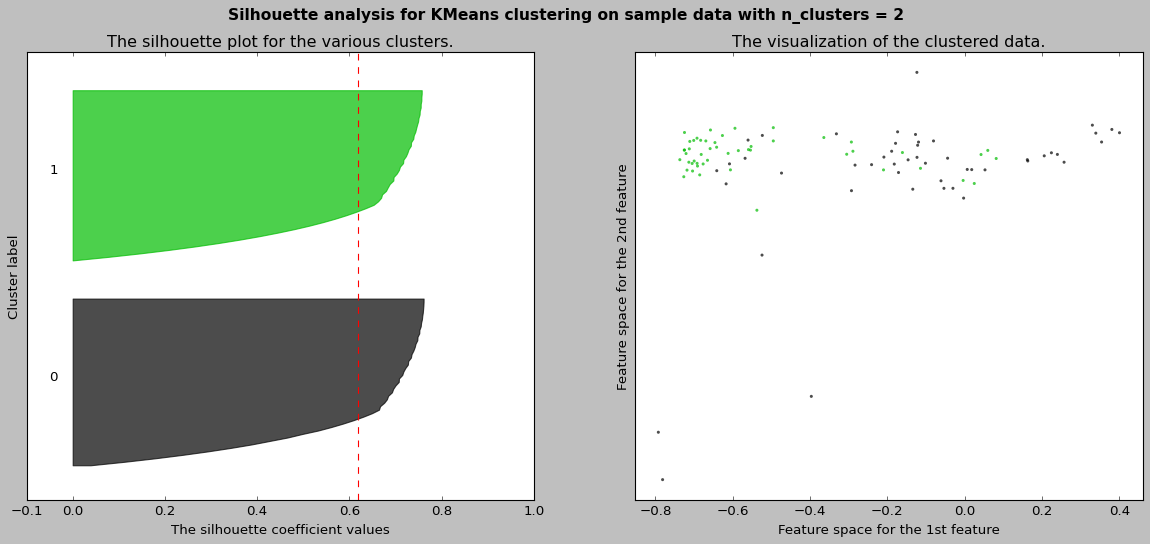
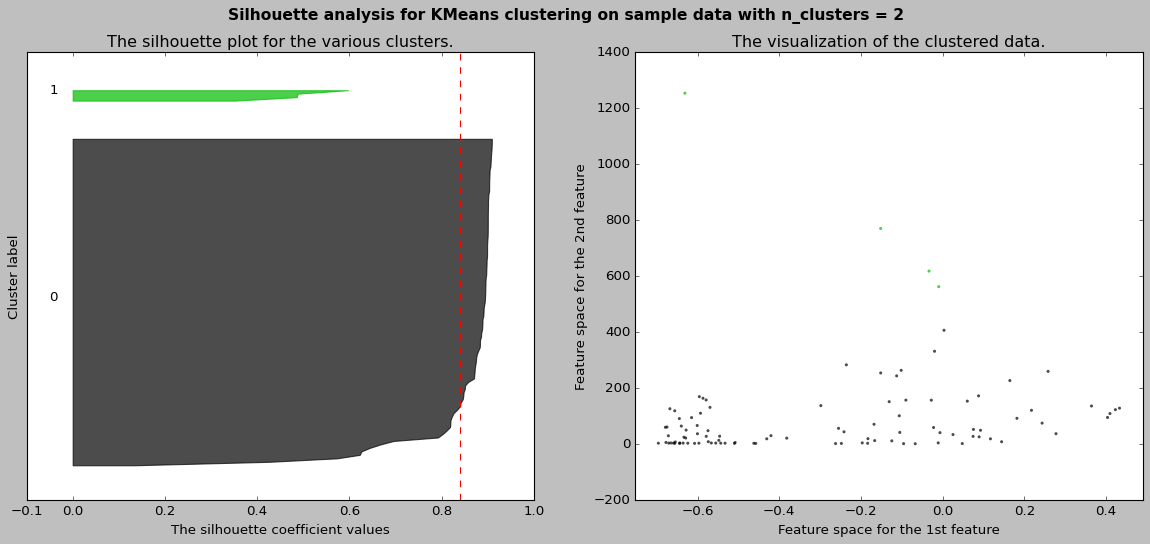
update

diff --git a/README.md b/README.md
@@ -41,18 +41,42 @@ After the bearing analysis where faulty bearings were predicted in the [classifi
 "Silhouette coefficients (as these values are referred to as) near +1 indicate that the sample is far away from the neighboring clusters. A value of 0 indicates that the sample is on or very close to the decision boundary between two neighboring clusters and negative values indicate that those samples might have been assigned to the wrong cluster.
 Also from the thickness of the silhouette plot the cluster size can be visualized."
 
-#### 2 Features
+### Feature Extraction
+#### 99 rows × 27 columns
+['a1_x_mean', 'a1_y_mean', 'a1_z_mean', 'a2_x_mean', 'a2_y_mean', 'a2_z_mean', 'rpm_mean', 'hz_mean', 'w_mean', 'a1_x_fft_mean', 'a1_y_fft_mean', 'a1_z_fft_mean', 'a2_x_fft_mean', 'a2_y_fft_mean', 'a2_z_fft_mean', 'a1_x_amp_mean', 'a1_y_amp_mean', 'a1_z_amp_mean', 'a2_x_amp_mean', 'a2_y_amp_mean', 'a2_z_amp_mean', 'a1_x_amp_max', 'a1_y_amp_max', 'a1_z_amp_max', 'a2_x_amp_max', 'a2_y_amp_max', 'a2_z_amp_max']
+
+
+#### Clustering 2 Features: (a2_x_mean & a1_x_amp_max)
+#### Max Score = 0.84
+The highest silhouette score for 2 clusters, yet the outliers influence this score.
+From 3 clusters on, the score drops drastically.
 
 | Features and Clusters   | Scores                                               |
 |-------------------------|------------------------------------------------------|
-| a2_x_mean and a2_z_mean |  silhouette_avg                                      |
-| For n_clusters = 2      | The average silhouette_score is : 0.6188612435218437 |
-| For n_clusters = 3      | The average silhouette_score is : 0.5772479495190245 |
-| For n_clusters = 4      | The average silhouette_score is : 0.5539730201832986 |
-| For n_clusters = 5      | The average silhouette_score is : 0.5366576669984205 |
-| For n_clusters = 6      | The average silhouette_score is : 0.5250367500156636 |
-| For n_clusters = 7      | The average silhouette_score is : 0.5146061178425838 |
+| a2_x_mean and a1_x_amp_max |  silhouette_avg                                      |
+| For n_clusters = 2      | The average silhouette_score is : 0.8391173340407827 |
+| For n_clusters = 3      | The average silhouette_score is : 0.5896726770101689 |
+| For n_clusters = 4      | The average silhouette_score is : 0.5876122410530076 |
+| For n_clusters = 5      | The average silhouette_score is : 0.576145435502854 |
+| For n_clusters = 6      | The average silhouette_score is : 0.41661611434422896 |
+| For n_clusters = 7      | The average silhouette_score is : 0.4488787240769407 |
 
+![n_clusters_2](assets/kmens_cl_2.png)
+![n_clusters_3](assets/kmens_cl_3.png)
+
+#### Clustering 2 Features: (a2_x_mean and a2_x_amp_max)
+#### Max Score = 0.72
+This 2 features show the 2nd highest score and best avg score as the cluster number increases.
+
+| Features and Clusters   | Scores                                               |
+|-------------------------|------------------------------------------------------|
+| a2_x_mean and a2_x_amp_max |  silhouette_avg                                      |
+| For n_clusters = 2      | The average silhouette_score is : 0.7193140808576391 |
+| For n_clusters = 3      | The average silhouette_score is : 0.6971062066523174 |
+| For n_clusters = 4      | The average silhouette_score is : 0.6074239715611994 |
+| For n_clusters = 5      | The average silhouette_score is : 0.4776556949633035 |
+| For n_clusters = 6      | The average silhouette_score is : 0.47652959722799404 |
+| For n_clusters = 7      | The average silhouette_score is : 0.48445280262214047 |
 
 ![n_clusters_2](assets/feat_2_clust_2.png)
 ![n_clusters_3](assets/feat_2_clust_3.png)
@@ -61,95 +85,133 @@ Also from the thickness of the silhouette plot the cluster size can be visualize
 ![n_clusters_6](assets/feat_2_clust_6.png)
 ![n_clusters_7](assets/feat_2_clust_7.png)
 
-#### 3 Features
+
+#### Clustering 3 Features: 
+#### Max Score = 0.82
 
 | Features and Clusters                 | Scores                                               |
 |---------------------------------------|------------------------------------------------------|
-| a2_x_mean and a2_z_mean and a2_y_mean | silhouette_avg                                       |
-| For n_clusters = 2                    | The average silhouette_score is : 0.6185202303993942 |
-| For n_clusters = 3                    | The average silhouette_score is : 0.5765327496751518 |
-| For n_clusters = 4                    | The average silhouette_score is : 0.5528574390662281 |
-| For n_clusters = 5                    | The average silhouette_score is : 0.5369145266984755 |
-| For n_clusters = 6                    | The average silhouette_score is : 0.5238678602174942 |
-| For n_clusters = 7                    | The average silhouette_score is : 0.512377013008427  |
+| a2_x_mean and a2_x_amp_max and a1_x_amp_max| silhouette_avg                                       |
+| For n_clusters = 2                    | The average silhouette_score is : 0.8163113329891316 |
+| For n_clusters = 3                    | The average silhouette_score is : 0.6851989189166398 |
+| For n_clusters = 4                    | The average silhouette_score is : 0.5808657143340374 |
+| For n_clusters = 5                    | The average silhouette_score is : 0.531830292537537 |
+| For n_clusters = 6                    | The average silhouette_score is : 0.543810333392949 |
+| For n_clusters = 7                    | The average silhouette_score is : 0.5407103307516351  |
 
 
-#### 4 Features
-
-| Features and Clusters                 | Scores                                               |
-|---------------------------------------|------------------------------------------------------|
-| a2_x_mean and a2_z_mean and a2_y_mean and a2_x_fft_mean | silhouette_avg                                       |
-| For n_clusters = 2                    | The average silhouette_score is : 0.6164868634004139 |
-| For n_clusters = 3                    | The average silhouette_score is : 0.5733619037988797 |
-| For n_clusters = 4                    | The average silhouette_score is : 0.5463003083101764 |
-| For n_clusters = 5                    | The average silhouette_score is : 0.5293495499541816 |
-| For n_clusters = 6                    | The average silhouette_score is : 0.5159713210246866 |
-| For n_clusters = 7                    | The average silhouette_score is : 0.4997217930780929 |
-
-
-#### 5 Features
+#### Clustering 4 Features: 
+#### Max Score = 0.81
 
 | Features and Clusters                 | Scores                                               |
 |---------------------------------------|------------------------------------------------------|
-| a2_x_mean and a2_z_mean and a2_y_mean and a2_x_fft_mean and a2_x_amp_mean| silhouette_avg                                       |
-| For n_clusters = 2                    | The average silhouette_score is : 0.6146942490498364 |
-| For n_clusters = 3                    | The average silhouette_score is : 0.5707324453883413 |
-| For n_clusters = 4                    | The average silhouette_score is : 0.5413648009702641 |
-| For n_clusters = 5                    | The average silhouette_score is : 0.5243917278414285 |
-| For n_clusters = 6                    | The average silhouette_score is : 0.5101974928706712 |
-| For n_clusters = 7                    | The average silhouette_score is : 0.4918545925328513 |
+| a2_x_mean and a2_x_amp_max and a1_x_amp_max and a1_x_amp_mean | silhouette_avg                                       |
+| For n_clusters = 2                    | The average silhouette_score is : 0.816337835091993 |
+| For n_clusters = 3                    | The average silhouette_score is : 0.6853379489566155 |
+| For n_clusters = 4                    | The average silhouette_score is : 0.5805487854437156 |
+| For n_clusters = 5                    | The average silhouette_score is : 0.5313973456051717 |
+| For n_clusters = 6                    | The average silhouette_score is : 0.54325716644592 |
+| For n_clusters = 7                    | The average silhouette_score is : 0.5405620139117403 |
 
 
-#### 6 Features
+#### Clustering 5 Features: 
+#### Max Score = 0.81
 
 | Features and Clusters                 | Scores                                               |
 |---------------------------------------|------------------------------------------------------|
-| a2_x_mean and a2_z_mean and a2_y_mean and a2_x_fft_mean and a2_z_fft_mean and a2_x_amp_mean| silhouette_avg                                       |
-| For n_clusters = 2                    | The average silhouette_score is : 0.6129248901207173 |
-| For n_clusters = 3                    | The average silhouette_score is : 0.5687977113121171 |
-| For n_clusters = 4                    | The average silhouette_score is : 0.5365745185042812 |
-| For n_clusters = 5                    | The average silhouette_score is : 0.5190340658704269 |
-| For n_clusters = 6                    | The average silhouette_score is : 0.5047063681260266 |
-| For n_clusters = 7                    | The average silhouette_score is : 0.48516446358873805 |
+| a2_x_mean and a2_x_amp_max and a1_x_amp_max and a1_x_amp_mean and a2_z_mean | silhouette_avg                                       |
+| For n_clusters = 2                    | The average silhouette_score is : 0.8163377384185057 |
+| For n_clusters = 3                    | The average silhouette_score is : 0.6853377312247558 |
+| For n_clusters = 4                    | The average silhouette_score is : 0.5805483797544999 |
+| For n_clusters = 5                    | The average silhouette_score is : 0.5313966795123813 |
+| For n_clusters = 6                    | The average silhouette_score is : 0.5432564578049024 |
+| For n_clusters = 7                    | The average silhouette_score is : 0.5405613087010945
+
+
+#### Clustering 6 Features 
+#### Max Score = 0.81
+
+| Features and Clusters                 | Scores                                               |
+|---------------------------------------|------------------------------------------------------|
+| a2_x_mean and a2_x_amp_max and a1_x_amp_max and a1_x_amp_mean and a2_z_mean and a2_z_amp_max | silhouette_avg                                       |
+| For n_clusters = 2                    | The average silhouette_score is : 0.8163377384185057 |
+| For n_clusters = 3                    | The average silhouette_score is : 0.6853377312247558 |
+| For n_clusters = 4                    | The average silhouette_score is : 0.5805483797544999 |
+| For n_clusters = 5                    | The average silhouette_score is : 0.5313966795123813 |
+| For n_clusters = 6                    | The average silhouette_score is : 0.5432564578049024 |
+| For n_clusters = 7                    | The average silhouette_score is : 0.5405613087010945 |
 
 
 #### Silhouette Score Evolution
+The silhouette score differs from 2 features (red line) compared to 3/4/5 or 6 features (lines overlapped). After 3 features the addition of features doesn't affect the scores.
 
 ![score_evolution](assets/score_evolution.png)
 
+## Model Comparison
 
-### Agglomerative Clustering Model
+### Agglomerative Clustering Model: 
+#### Max Score = 0.88
+This score for n_clusters = 2 is influenced due to one outlier. For 3 to 7 clusters the score as well as the clustering is similar to the KMeans model.
+#### Features: a2_x_mean and a2_x_amp_max
 
-Features:<br/> a2_x_mean and a2_y_mean<br/>
-For n_clusters = 2 The average silhouette_score is : 0.6052813580401204<br/>
-For n_clusters = 3 The average silhouette_score is : 0.5619701533559098<br/>
-For n_clusters = 4 The average silhouette_score is : 0.5198946530090034<br/>
-For n_clusters = 5 The average silhouette_score is : 0.5219365474776361<br/>
-For n_clusters = 6 The average silhouette_score is : 0.5155835523099813<br/>
-For n_clusters = 7 The average silhouette_score is : 0.4904267147704647
+For n_clusters = 2 The average silhouette_score is : 0.8817317199450385<br/>
+For n_clusters = 3 The average silhouette_score is : 0.637286509478433<br/>
+For n_clusters = 4 The average silhouette_score is : 0.5964118984493065<br/>
+For n_clusters = 5 The average silhouette_score is : 0.3881427768321534<br/>
+For n_clusters = 6 The average silhouette_score is : 0.38698240565343117<br/>
+For n_clusters = 7 The average silhouette_score is : 0.42267524009350654
 
 ![agglomerative_cluster_2](assets/agglo_feat_2.png)
 ![agglomerative_cluster_3](assets/agglo_feat_3.png)
+![agglomerative_cluster_4](assets/agglo_feat_4.png)
 
 ### MeanShift Clustering Model
+#### Max Score = 0.50
+#### Features: a2_x_mean and a2_x_amp_max
 
-Features:<br/> a2_x_mean and a2_z_mean<br/>
-For n_clusters = 2 The average silhouette_score is : 0.4788317775775801<br/>
+For n_clusters = 2 The average silhouette_score is : 0.5023390400726975<br/>
 
 ![mean_shift_clust](assets/mean_shift.png)
 
 ### Spactral Clustering Model
+#### Max Score = 0.11
+#### Features: a2_x_mean and a2_x_amp_max
 
-Features:<br/> a2_x_mean and a2_x_amp_max<br/>
-For n_clusters = 2 The average silhouette_score is : 0.1940083895002846<br/>
-For n_clusters = 3 The average silhouette_score is : 0.1940083895002846<br/>
-For n_clusters = 4 The average silhouette_score is : 0.1940083895002846<br/>
-For n_clusters = 5 The average silhouette_score is : 0.1940083895002846<br/>
-For n_clusters = 6 The average silhouette_score is : 0.2620452158301752<br/>
-For n_clusters = 7 The average silhouette_score is : 0.1940083895002846
+For n_clusters = 2 The average silhouette_score is : 0.11083940200971502<br/>
+For n_clusters = 3 The average silhouette_score is : 0.05755723390032442<br/>
+For n_clusters = 4 The average silhouette_score is : -0.1506008603176886<br/>
+For n_clusters = 5 The average silhouette_score is : -0.03327685423983772<br/>
+For n_clusters = 6 The average silhouette_score is : -0.16893632557173605<br/>
+For n_clusters = 7 The average silhouette_score is : -0.4212891907366274
 
-![spactral_cluster_4](assets/spactral_4.png)
-![spactral_cluster_6](assets/spactral_6.png)
+![spactral_cluster_2](assets/spactral_2.png)
+![spactral_cluster_3](assets/spactral_3.png)
+
+
+## Conclusion
+
+##### The features proved to be the best for clustering after all combinations were:
+
+* *a2_x_mean*: Mean Value of sensor 2 readings in X-axis
+* *a2_x_amp_max*: Maximum Amplitude of sensor 2 readings in X-axis
+* *a1_x_amp_max*: Maximum Amplitude of sensor 1 readings in X-axis
+
+##### Sklearn Model used for clustering challenge:
+
+* *KMeans*
+* Highest Silhouette Score (2 features / 2 clusters) = 0.84
+* 2nd highest Sil. Score (2 features / 2 clusters) = 0.72
+* Avg Sil. Avg Score (2 features / 2-7 clusters) = 0.57
+* Best Sil. Avg Score (3-6 features / 2-7 clusters) = 0.61
+
+##### Other Clustering models tried:
+
+* *Agglomerative Clustering*      --> max Score = 0.88
+* *MeanShift*                     --> max Score = 0.50
+* *Spactral Clustering*           --> max Score = 0.11
+
+
+
 
 
 
